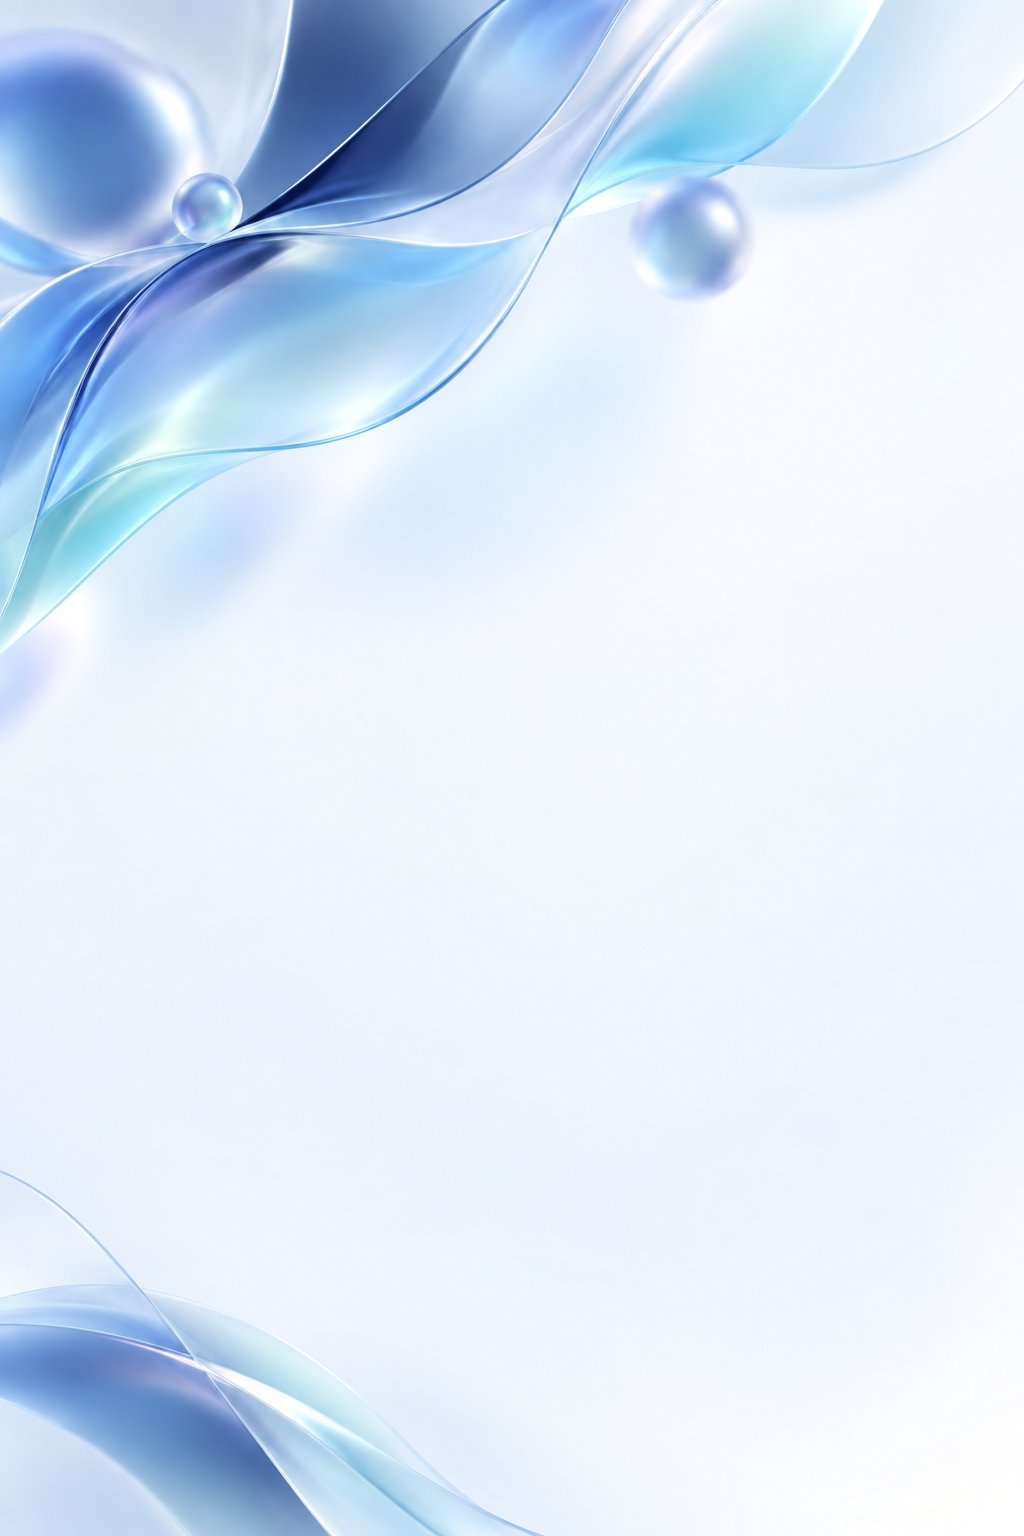
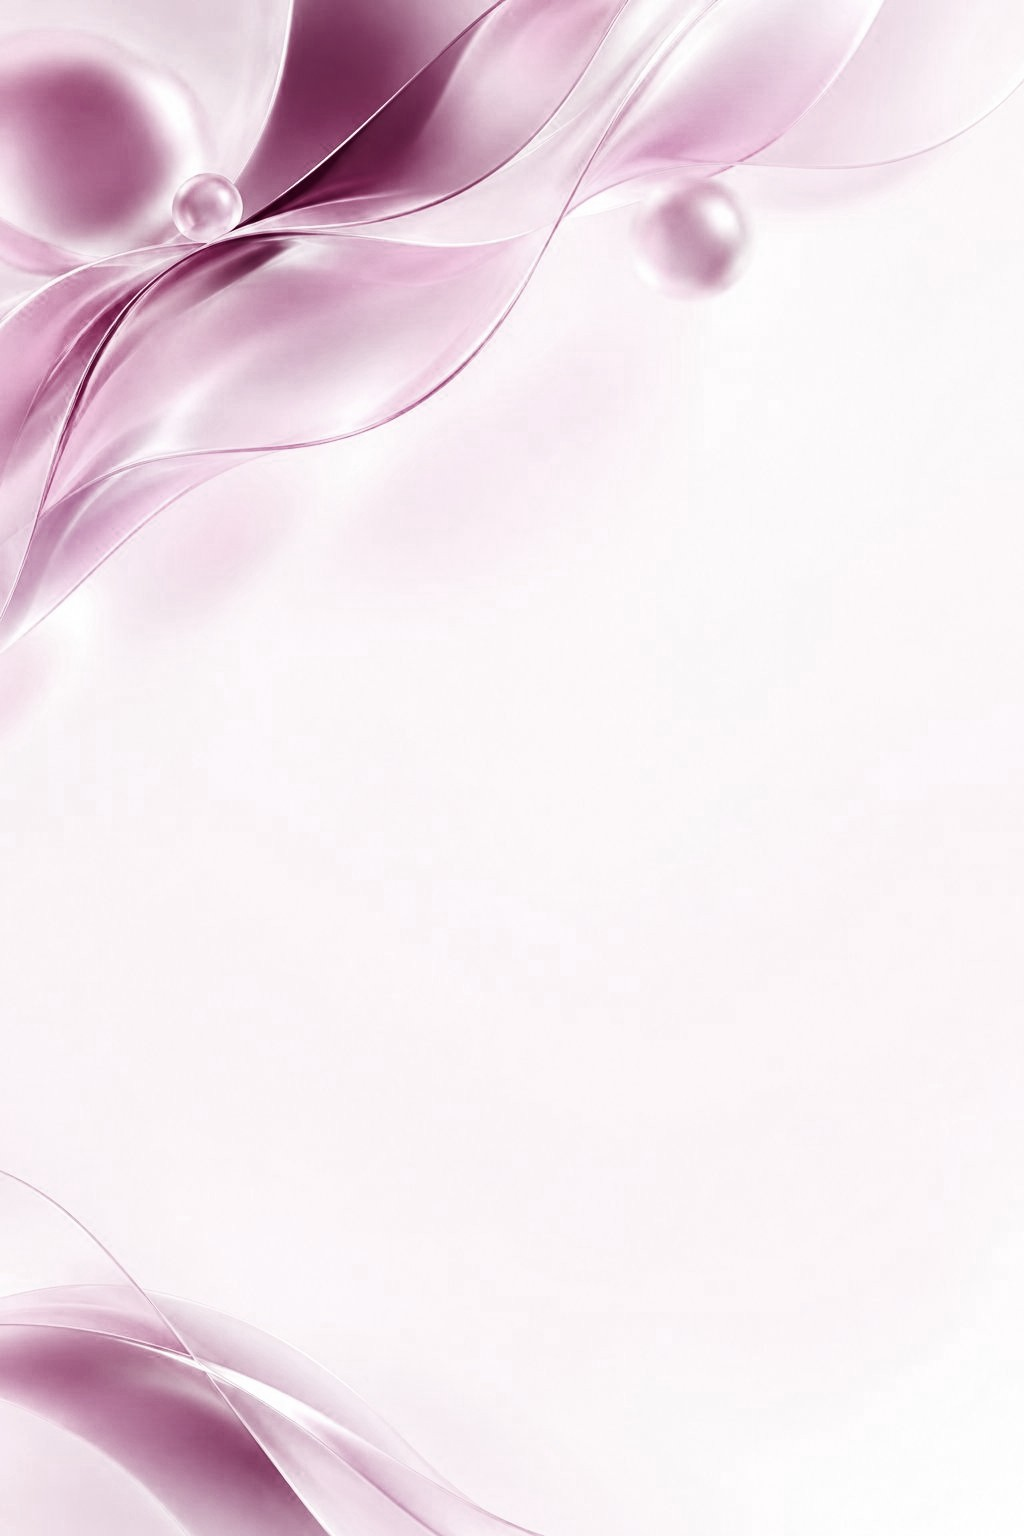
feat: update selection color for TextInput components and change color palette to Burgundy edition

Changed region(s): [[0.0, 0.0, 0.9375, 0.5], [0.0, 0.8125, 0.5312, 1.0], [0.0, 0.75, 0.0312, 0.7812]]

diff --git a/constants/Colors.ts b/constants/Colors.ts
@@ -1,55 +1,55 @@
-// Beep Captain brand palette — Royal Navy edition (shared with the Beep rider app).
-// Navy #1F3A6D (primary), Steel Blue #4F77C4 (accent),
-// true-black dark mode (no navy bg), white light mode,
+// Beep Captain brand palette — Burgundy edition (2026-10 identity, shared with the Beep rider app).
+// Burgundy #76033E (primary, matches the app icon), Rose #B8336A (accent),
+// warm-neutral greys, true-black dark mode (no burgundy bg), white light mode,
 // Success Green #22C55E, Danger Red #FF5A5F.
 //
 // Keep field names stable so consumers don't need to change.
 
 export const Colors = {
   light: {
-    text: '#0B0F16',
+    text: '#120B0F',
     background: '#FFFFFF',
-    tint: '#1F3A6D',
-    tintDark: '#142A52',
-    tintBright: '#2E5499',
-    tabIconDefault: '#9CA3AF',
-    tabIconSelected: '#1F3A6D',
+    tint: '#76033E',
+    tintDark: '#4A0026',
+    tintBright: '#9E1A5E',
+    tabIconDefault: '#A39AA0',
+    tabIconSelected: '#76033E',
     card: '#FFFFFF',
-    border: '#E6EAF1',
-    secondary: '#363A45',
-    subtle: '#6B7280',
-    surface: '#F4F6FA',
-    cardElevated: '#FAFBFD',
+    border: '#EDE6EA',
+    secondary: '#3D353A',
+    subtle: '#756B71',
+    surface: '#F7F3F5',
+    cardElevated: '#FCFAFB',
     destructive: '#FF5A5F',
-    muted: '#C7CDD9',
+    muted: '#D6CCD2',
     onTint: '#FFFFFF',
-    accent: '#4F77C4',
+    accent: '#B8336A',
     success: '#22C55E',
-    info: '#7BA0DD',
+    info: '#D47FA6',
     // Full-screen photo viewer: photos read best on black in either theme.
     mediaBackdrop: '#000000',
     onMediaBackdrop: '#FFFFFF',
   },
   dark: {
-    text: '#F4F6FA',
+    text: '#F7F3F5',
     background: '#000000',
-    tint: '#7BA0DD',
-    tintDark: '#2E5499',
-    tintBright: '#A9C2EC',
-    tabIconDefault: '#6B7280',
-    tabIconSelected: '#7BA0DD',
-    card: '#0C1018',
-    border: '#1F2530',
-    secondary: '#E2E6EE',
-    subtle: '#929AA8',
-    surface: '#141A24',
-    cardElevated: '#1A2230',
+    tint: '#E07AAA',
+    tintDark: '#9E1A5E',
+    tintBright: '#F2A9CB',
+    tabIconDefault: '#756B71',
+    tabIconSelected: '#E07AAA',
+    card: '#120B0F',
+    border: '#2A1F25',
+    secondary: '#EAE3E7',
+    subtle: '#A0959B',
+    surface: '#1B1218',
+    cardElevated: '#22171E',
     destructive: '#FF6B70',
-    muted: '#363E4C',
-    onTint: '#08111F',
-    accent: '#7BA0DD',
+    muted: '#40333A',
+    onTint: '#1A0610',
+    accent: '#E07AAA',
     success: '#4ADE80',
-    info: '#A9C2EC',
+    info: '#F2A9CB',
     mediaBackdrop: '#000000',
     onMediaBackdrop: '#FFFFFF',
   },

diff --git a/app/(auth)/register/account.tsx b/app/(auth)/register/account.tsx
@@ -150,6 +150,7 @@ export default function AccountStep() {
                   <OtpBoxes value={code} />
                 </TouchableOpacity>
                 <TextInput
+                  selectionColor={colors.tint}
                   ref={codeRef}
                   value={code}
                   onChangeText={(v) => setCode(toAsciiDigits(v).replace(/\D/g, '').slice(0, 6))}

diff --git a/components/trip/location-picker.tsx b/components/trip/location-picker.tsx
@@ -439,6 +439,7 @@ export function LocationPicker({
                 <Icon name={I18nManager.isRTL ? 'arrow-forward' : 'arrow-back'} size={22} color={colors.text} />
               </TouchableOpacity>
               <TextInput
+                selectionColor={colors.tint}
                 value={query}
                 onChangeText={setQuery}
                 autoFocus

diff --git a/components/auth/auth-scaffold.tsx b/components/auth/auth-scaffold.tsx
@@ -205,6 +205,7 @@ export const AuthField = forwardRef<TextInput, AuthFieldProps>(function AuthFiel
       >
         {leading}
         <TextInput
+          selectionColor={colors.tint}
           ref={ref}
           placeholderTextColor={colors.subtle}
           onFocus={(e) => {

diff --git a/components/forms/input.tsx b/components/forms/input.tsx
@@ -48,6 +48,7 @@ export const Input = forwardRef<TextInput, InputProps>(function Input(
       }}>
         {leading}
         <TextInput
+          selectionColor={colors.tint}
           ref={ref}
           placeholderTextColor={colors.subtle}
           {...props}

diff --git a/components/chat/chat-thread.tsx b/components/chat/chat-thread.tsx
@@ -413,6 +413,7 @@ function Composer({
         }}
       >
         <TextInput
+          selectionColor={colors.tint}
           value={value}
           onChangeText={onChangeText}
           placeholder={placeholder}
